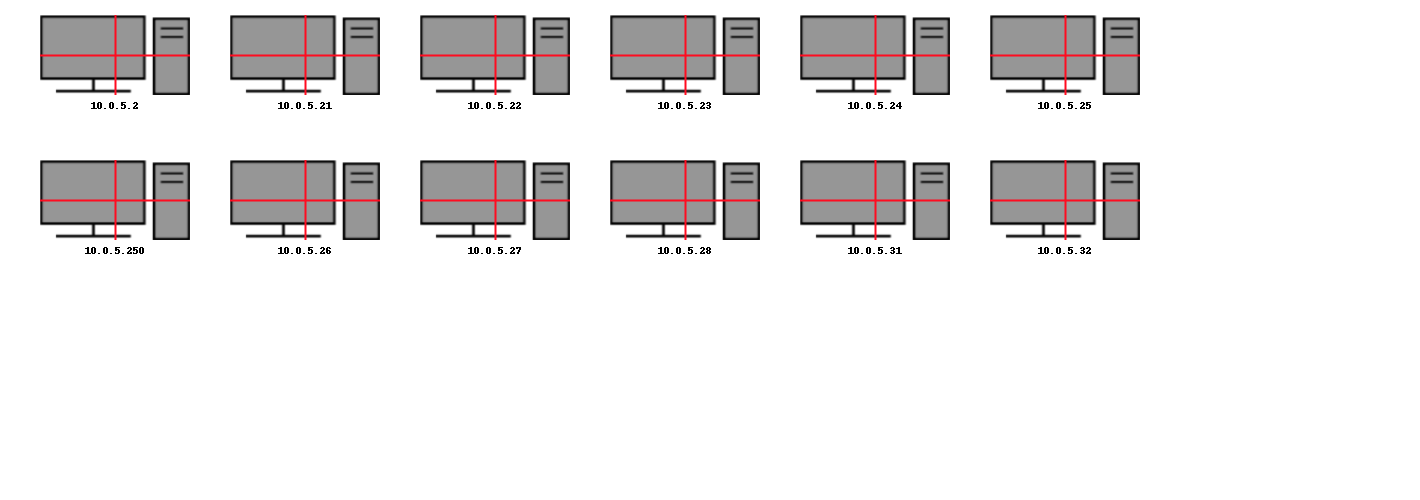
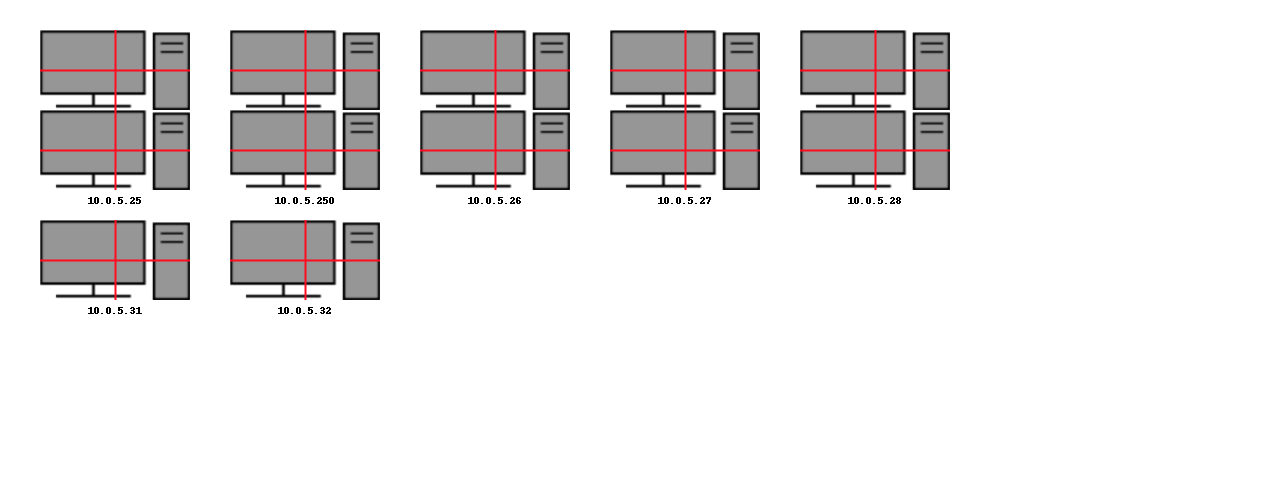
Fixing rows bug

Changed region(s): [[0.0, 0.03, 0.8291, 0.63]]

diff --git a/NetworkDiagrammer/XML/SingleXMLParser.py b/NetworkDiagrammer/XML/SingleXMLParser.py
@@ -82,12 +82,10 @@ print('-------------------------------------------------------------------------
 
 #Variables
 PaddingSizeX = 40
-PaddingSizeY = 15
+PaddingSizeY = 30
 
-# (TODO) - To calculate number of wks per row use % to make sure there is no remainder, if there is increase the amt per row by 1
-numWksPerRow = 6
+numWksPerRow = 5
 
-# (TODO) - Incorperate numWksPerRow into this calculation instead of just raw number
 BaseImageSizeX = (150 * numWksPerRow) + (PaddingSizeX * (numOfScannedIps + 1))
 BaseImageSizeY = 500
 Image_Filename = "TestImage1.png"
@@ -111,17 +109,20 @@ numCurrentRows = 1
 startX = 0 + PaddingSizeX
 startY = 0 + PaddingSizeY
 
+print('Start Y = ', startY)
+
 while count < numOfScannedIps:
 
 	
 	#This if statment checks to see how many icons have been placed in a row then starts a new row
 	if inRowCount >= numWksPerRow:
-		numCurrentRows = numCurrentRows + 1
 		startX = PaddingSizeX
-		startY = (iconHeight * numCurrentRows)
+		startY = (iconHeight * numCurrentRows) + ( PaddingSizeY * numCurrentRows)
+		numCurrentRows = numCurrentRows + 1
 		inRowCount = 0
 		print('###########################')
 		print('CREATING NEW ROW')
+		print('New Y = ', startY)
 		print('###########################')
 
 	# Add the IP address of the workstation to the bottom of the image
